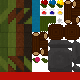
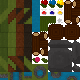
Tile Rendering working (sortof)

Changed region(s): [[0.0, 0.8, 1.0, 1.0]]

diff --git a/src/main/java/org/bytefire/ld48/util/Camera.java b/src/main/java/org/bytefire/ld48/util/Camera.java
@@ -1,7 +1,5 @@
 package org.bytefire.ld48.util;
 
-import java.io.IOException;
-import java.util.logging.Logger;
 import me.darkeh.projectd.assets.Asset;
 import me.darkeh.projectd.assets.Level;
 import me.darkeh.projectd.assets.TexInfo;
@@ -16,6 +14,7 @@ public class Camera{
         this.view = view;
         this.center = center;
         terrain = new TileLoader("terrain.png");
+        ((Level)new Asset("Level1-1.d", true).read()).printIds();
     }
 
     public boolean onScreen(Entity e){
@@ -27,13 +26,22 @@ public class Camera{
         return view.isWithin(x, y);
     }
 
+    public Rect getBounds(){
+        return view;
+    }
+
     public void drawMap(LevelID levelID){
+        int w = view.getWidth();
+        int h = view.getHeight();
+        view.setPoint1(new Location(center.getGame(), center.getX() - 76, center.getY() - 56, 0));
+        view.setWidth(w);
+        view.setHeight(h);
         Level layer1 = null;
         Level layer2 = null;
         switch(levelID){
             case TEST:
-                layer1 = (Level)(new Asset("level1-1.d", true).read());
-                layer2 = (Level)(new Asset("level1-2.d", true).read());
+                layer1 = (Level)(new Asset("Level1-1.d", true).read());
+                layer2 = (Level)(new Asset("Level1-2.d", true).read());
                 break;
             case ONE:
                 break;
@@ -42,13 +50,40 @@ public class Camera{
             default:
         }
 
-        if (layer1 != null && layer2 != null);
-        for (int x = (int)(((view.getPoint1().getX()) / 8) - 1); x <= ((view.getPoint1().getX()) / 8) + 1; x++)
-        for (int y = (int)((view.getPoint1().getY()) / 8) - 1; y <= ((view.getPoint1().getY()) / 8) + 1; y++){
-            TexInfo t = layer1.getTextureFromGrid(y, x);
-            try {
-                terrain.getTexture(t.getX1(), t.getY1(), t.getX2(), t.getY2());
-            } catch (IOException ex) {}
+//        System.out.println("Vx:   " + Integer.toString((int)view.getPoint1().getX()));
+//        System.out.println("Vy:   " + Integer.toString((int)view.getPoint1().getY()));
+//        System.out.println("Vxx:   " + Integer.toString((int)view.getPoint2().getX()));
+//        System.out.println("Vyy:   " + Integer.toString((int)view.getPoint2().getY()));
+
+        int xStart = (int)view.getPoint1().getX() / 8;
+        int yStart = (int)view.getPoint1().getY() / 8;
+
+        Location dummy = new Location(center.getGame(),
+                (center.getX() * -1) + (15 * 8),
+                (center.getY() * -1) + (20 * 8), 0);
+        System.out.println("Px:   " + Double.toString(center.getX()/8));
+        System.out.println("Py:   " + Double.toString(center.getY()/8));
+        System.out.println("Dx:   " + Double.toString(dummy.getX()/8));
+        System.out.println("Dy:   " + Double.toString(dummy.getY()/8));
+
+        if (layer1 != null && layer2 != null)
+        for (int x = 0; x < 64; x++)
+        for (int y = 0; y < 64; y++){
+//            System.out.println("---------");
+//            System.out.println(xStart);
+//            System.out.println(yStart);
+//            System.out.println(((view.getPoint2().getX() / 8)) + 1);
+//            System.out.println(((view.getPoint2().getY() / 8)) + 1);
+//            System.out.println(x);
+//            System.out.println(y);
+//            System.out.println(view.getPoint1().getX() + ((x - xStart)* 8));
+//            System.out.println(view.getPoint1().getY() + ((y - yStart)* 8));
+            if (Math.floor(dummy.distance(x * 4, y * 4)) < 80){
+                TexInfo t;
+                t = layer1.getTextureFromGrid(Math.abs(x), Math.abs(y));
+                Tile tile = new Tile(terrain, t);
+                tile.draw((int)view.getPoint1().getX() + (x * 8), (int)view.getPoint1().getY() + (y * 8));
+            }
         }
     }
 }

diff --git a/src/main/java/org/bytefire/ld48/Player.java b/src/main/java/org/bytefire/ld48/Player.java
@@ -1,18 +1,22 @@
 package org.bytefire.ld48;
 
 import org.bytefire.ld48.Game.KeyState;
+import org.bytefire.ld48.util.Camera;
 import org.bytefire.ld48.util.Location;
 import org.bytefire.ld48.util.Sprite;
+import org.bytefire.ld48.util.TileLoader;
 import org.lwjgl.input.Keyboard;
 
 public class Player implements Entity{
     Location loc;
     boolean draw;
     boolean phys;
+    TileLoader sprite;
     public Player(Location loc, boolean draw, boolean physics){
         this.loc = loc;
         this.draw = draw;
         this.phys = physics;
+        sprite = new TileLoader("player.png");
     }
     public Game getGame(){
         return loc.getGame();
@@ -60,8 +64,9 @@ public class Player implements Entity{
 
     public void drawEntity(Game game){
         if (draw){
+            Location origin = game.getView().getBounds().getPoint1();
             Sprite spr = game.getSprite("player.png");
-            spr.draw((int)getX(), (int)getY());
+            spr.draw((int)getX() - (int)origin.getX(), (int)getY() - (int)origin.getY());
         }
     }
 
@@ -75,10 +80,10 @@ public class Player implements Entity{
 
     public void doPhysics(Game game){
         if (phys){
-            if (game.getKey(Keyboard.KEY_D) == KeyState.Pressed) setX(getX()+5);
-            if (game.getKey(Keyboard.KEY_A) == KeyState.Pressed) setX(getX()-5);
-            if (game.getKey(Keyboard.KEY_W) == KeyState.Pressed) setY(getY()-5);
-            if (game.getKey(Keyboard.KEY_S) == KeyState.Pressed) setY(getY()+5);
+            if (game.getKey(Keyboard.KEY_D) == KeyState.Pressed) setX(getX()-2);
+            if (game.getKey(Keyboard.KEY_A) == KeyState.Pressed) setX(getX()+2);
+            if (game.getKey(Keyboard.KEY_W) == KeyState.Pressed) setY(getY()+2);
+            if (game.getKey(Keyboard.KEY_S) == KeyState.Pressed) setY(getY()-2);
         }
     }
 

diff --git a/src/main/java/org/bytefire/ld48/util/Tile.java b/src/main/java/org/bytefire/ld48/util/Tile.java
@@ -1,6 +1,7 @@
 package org.bytefire.ld48.util;
 
 import java.io.IOException;
+import me.darkeh.projectd.assets.TexInfo;
 
 import static org.lwjgl.opengl.GL11.*;
 
@@ -8,13 +9,22 @@ public class Tile {
     private Texture texture;
     private int width;
     private int height;
-    public Tile(TileLoader loader, int tileID) {
+    public Tile(TileLoader loader, TexInfo tex) {
         try {
-            int x = (tileID % 10);
-            int y = (int)Math.floor(tileID/10) + 1;
-            texture = loader.getTexture(x, y, x + 8, y + 8);
-            width = texture.getImageWidth();
-            height = texture.getImageHeight();
+            if (loader == null) {
+                System.out.println("Null Loader");
+            }
+            else if (tex == null) {
+                //System.out.println("Null TexInfo");
+                texture = loader.getTexture(72, 72, 80, 80);
+                width = texture.getImageWidth();
+                height = texture.getImageHeight();
+            }
+            else{
+                texture = loader.getTexture(tex.getX1(), tex.getY1(), tex.getX2(), tex.getY2());
+                width = texture.getImageWidth();
+                height = texture.getImageHeight();
+            }
         } catch (IOException ioe) {
             ioe.printStackTrace();
           System.exit(-1);

diff --git a/src/main/java/org/bytefire/ld48/Game.java b/src/main/java/org/bytefire/ld48/Game.java
@@ -30,6 +30,7 @@ public class Game{
         removeEntities = new ArrayList<Entity>();
         pressedKeys = new ArrayList<Integer>();
         releasedKeys = new ArrayList<Integer>();
+        tex = new TextureLoader();
         height = 480;
         width = 640;
         viewHeight = 120;
@@ -91,6 +92,10 @@ public class Game{
         GL11.glTexParameteri(GL11.GL_TEXTURE_2D, GL11.GL_TEXTURE_MIN_FILTER, GL11.GL_NEAREST);
     }
 
+    public Player getPlayer(){
+        return (Player)gameEntities.get(0);
+    }
+
     private void initEntities(){
 
     }
@@ -104,13 +109,16 @@ public class Game{
 
     private void doDraw(float i){
         GL11.glClear(GL11.GL_COLOR_BUFFER_BIT | GL11.GL_DEPTH_BUFFER_BIT);
-System.out.println("doDraw");
         cam.drawMap(LevelID.TEST);
         for (Entity e: gameEntities){
             e.drawEntity(this);
         }
         getSprite("inventory.png").draw(59, 96);
         Display.update();
+    }
+
+    public Camera getView(){
+        return cam;
     }
 
     public Sprite getSprite(String ref) {

diff --git a/src/main/java/me/darkeh/projectd/Interpreter.java b/src/main/java/me/darkeh/projectd/Interpreter.java
@@ -65,14 +65,12 @@ public class Interpreter {
                 default:
             }
 
-            StringBuilder string = new StringBuilder();
-            for (int charnumber = 0; charnumber <= 4096; charnumber++){
-                try {
-                    string.append(String.copyValueOf(Character.toChars(reader.read())));
-
-                } catch (IOException ex) {}
-            }
-            String[] array = string.toString().split(",");
+            String string = new String();
+            try {for (int charnumber = 0; reader.ready(); charnumber++){
+                    string = string.concat(String.copyValueOf(Character.toChars(reader.read())));
+            }} catch (IOException e) {e.printStackTrace(System.out);};
+            System.out.println(string.length());
+            String[] array = string.split(",");
             byte[][][][] byteArray = new byte[64][64][1][1];
             for (int y = 0; y < 64; y++) for(int x = 0; x < 64; x++){
                 if (y*64 + x < array.length - 1){

diff --git a/src/main/java/me/darkeh/projectd/assets/Asset.java b/src/main/java/me/darkeh/projectd/assets/Asset.java
@@ -49,7 +49,7 @@ public class Asset {
         Object object = null;
         ObjectInputStream objectStream = null;
         try {
-            if (resource) objectStream = new ObjectInputStream(new GZIPInputStream(ClassLoader.getSystemResourceAsStream("me/darkeh/projectd/resources/levels.d")));
+            if (resource) objectStream = new ObjectInputStream(new GZIPInputStream(ClassLoader.getSystemResourceAsStream(name)));
             else objectStream = new ObjectInputStream(new GZIPInputStream(new FileInputStream(name)));
             try {object = objectStream.readObject();} catch(ClassNotFoundException e) {}
         } catch (IOException e) {}

diff --git a/src/main/java/org/bytefire/ld48/util/Rect.java b/src/main/java/org/bytefire/ld48/util/Rect.java
@@ -55,10 +55,10 @@ public class Rect {
     public void setLocation(Location loc){
         int w = (xx - x)/2;
         int h = (yy - y)/2;
+        xx = (int)loc.getX() + (xx - x) - w;
+        yy = (int)loc.getY() + (yy - y) - h;
         x = (int)loc.getX() - w;
-        xx = (int)loc.getX() + w;
         y = (int)loc.getY() - h;
-        yy = (int)loc.getY() + h;
     }
 
     public int getWidth(){

diff --git a/src/main/java/org/bytefire/ld48/util/Location.java b/src/main/java/org/bytefire/ld48/util/Location.java
@@ -41,4 +41,8 @@ public class Location {
     public void setZ(double z){
         this.z = z;
     }
+
+    public double distance(int xx, int yy){
+        return Math.sqrt(((xx - x)*(xx - x))+((yy - y)*(yy - y)));
+    }
 }
